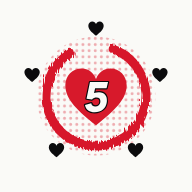
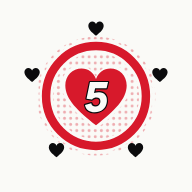
Clean up the Heart 5 ring: solid stroke, ring and heart above the stipple
The card's red ring ran through the same turbulence displacement filter
the table ring had, with a gap and a second dry pass, so its edges read
fuzzy. Now it's one closed stroke, and the ring and the big heart get a
thin paper edge so they sit cleanly on top of the screentone. The app
icons share the drawing, so icon.svg and favicon.svg get the same fix
and the PNGs and favicon.ico are regenerated.

diff --git a/src/client/components/ui/CardFace.tsx b/src/client/components/ui/CardFace.tsx
@@ -70,7 +70,7 @@ const Index: React.FC<{ label: string; suit: SuitCode; color: string; pipFill?: 
 );
 
 /**
- * The Heart of Five: an ink double frame, a dry-brush ring in red round a big heart, five small
+ * The Heart of Five: an ink double frame, a clean red ring round a big heart (both edged in paper so they sit on the stipple), five small
  * ink hearts, screentone shading, and the 红心五 seal stamp. Our own marks, nothing borrowed.
  */
 const HeartFive: React.FC = () => {
@@ -81,25 +81,20 @@ const HeartFive: React.FC = () => {
         <pattern id={`h5tone${id}`} width="3.2" height="3.2" patternUnits="userSpaceOnUse">
           <circle cx="1.6" cy="1.6" r="0.75" fill={RED} opacity="0.35" />
         </pattern>
-        <filter id={`h5brush${id}`} x="-20%" y="-20%" width="140%" height="140%">
-          <feTurbulence type="fractalNoise" baseFrequency="1.4 0.12" numOctaves="2" seed="11" />
-          <feDisplacementMap in="SourceGraphic" scale="3.2" />
-        </filter>
       </defs>
       <rect x="3.5" y="3.5" width="93" height="133" rx="3" fill="none" stroke={INK} strokeWidth="2.4" />
       <rect x="7" y="7" width="86" height="126" rx="1.5" fill="none" stroke={RED} strokeWidth="0.9" />
       <Index label="5" suit="H" color={RED} />
       <g transform="rotate(180 50 70)"><Index label="5" suit="H" color={RED} /></g>
       <circle cx="50" cy="70" r="31" fill={`url(#h5tone${id})`} />
-      {/* one loaded brush stroke, lifting off before it closes */}
-      <g filter={`url(#h5brush${id})`} fill="none" stroke={RED} strokeLinecap="round">
-        <circle cx="50" cy="70" r="26" strokeWidth="4.6" strokeDasharray="140 24" transform="rotate(-70 50 70)" />
-        <circle cx="50" cy="70" r="26" strokeWidth="1.6" strokeDasharray="120 44" transform="rotate(-40 50 70)" opacity="0.8" />
-      </g>
+      {/* the ring: one clean closed stroke, with a paper edge so it sits on top of the stipple */}
+      <circle cx="50" cy="70" r="26" fill="none" stroke={PAPER} strokeWidth="7" />
+      <circle cx="50" cy="70" r="26" fill="none" stroke={RED} strokeWidth="4.4" />
       {[0, 1, 2, 3, 4].map((i) => {
         const a = (i * 72 - 90) * (Math.PI / 180);
         return <Pip key={i} suit="H" x={50 + Math.cos(a) * 35} y={70 + Math.sin(a) * 35} size={8.5} fill={INK} />;
       })}
+      <Pip suit="H" x={50} y={71.4} size={38} fill={PAPER} />
       <Pip suit="H" x={50} y={71} size={34} />
       <text x="50" y="78" textAnchor="middle" fill={PAPER} stroke={INK} strokeWidth="0.6" paintOrder="stroke" fontFamily={LETTERING} fontSize="22">5</text>
       {/* seal stamp: 红心五 */}
